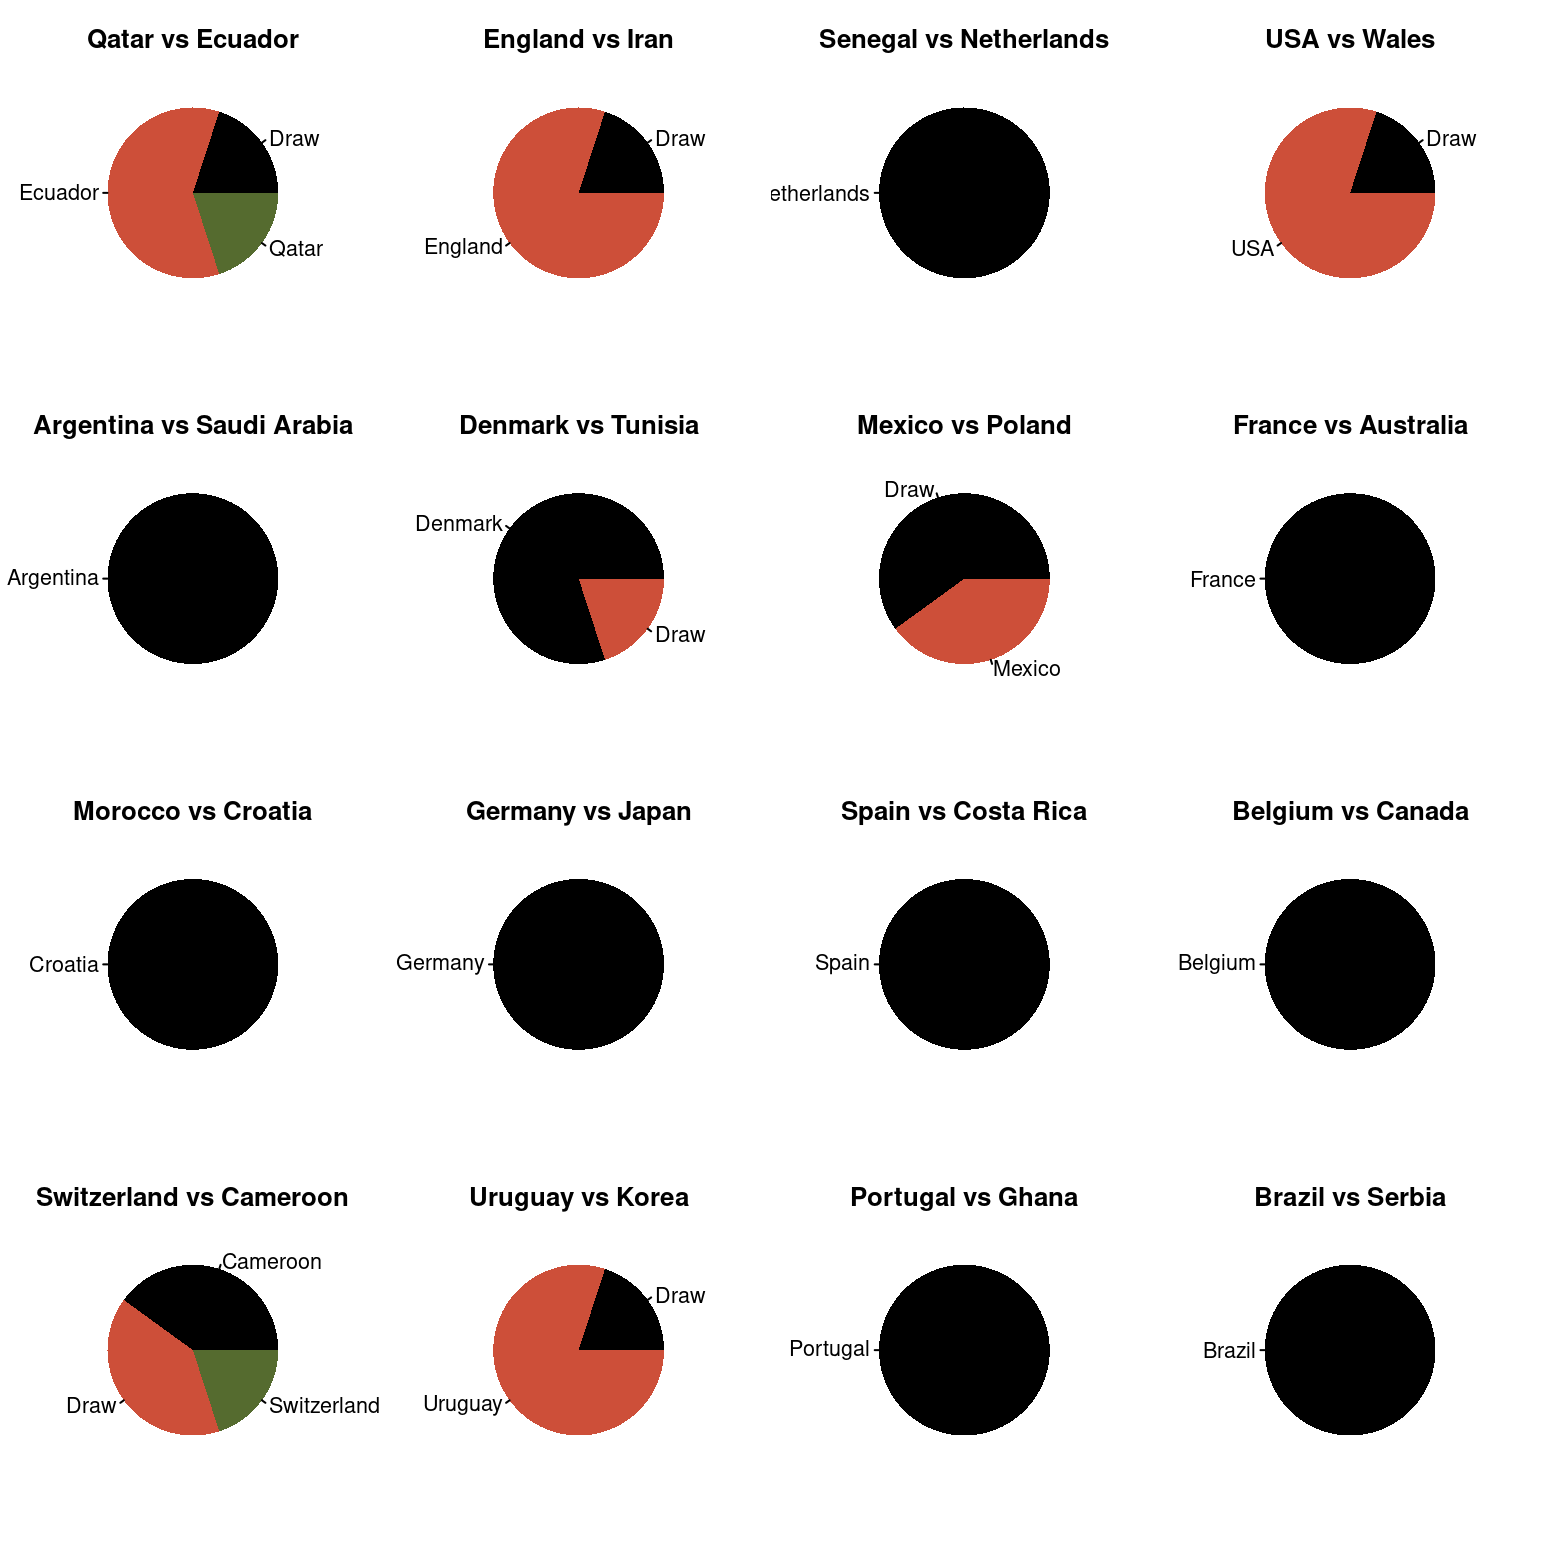
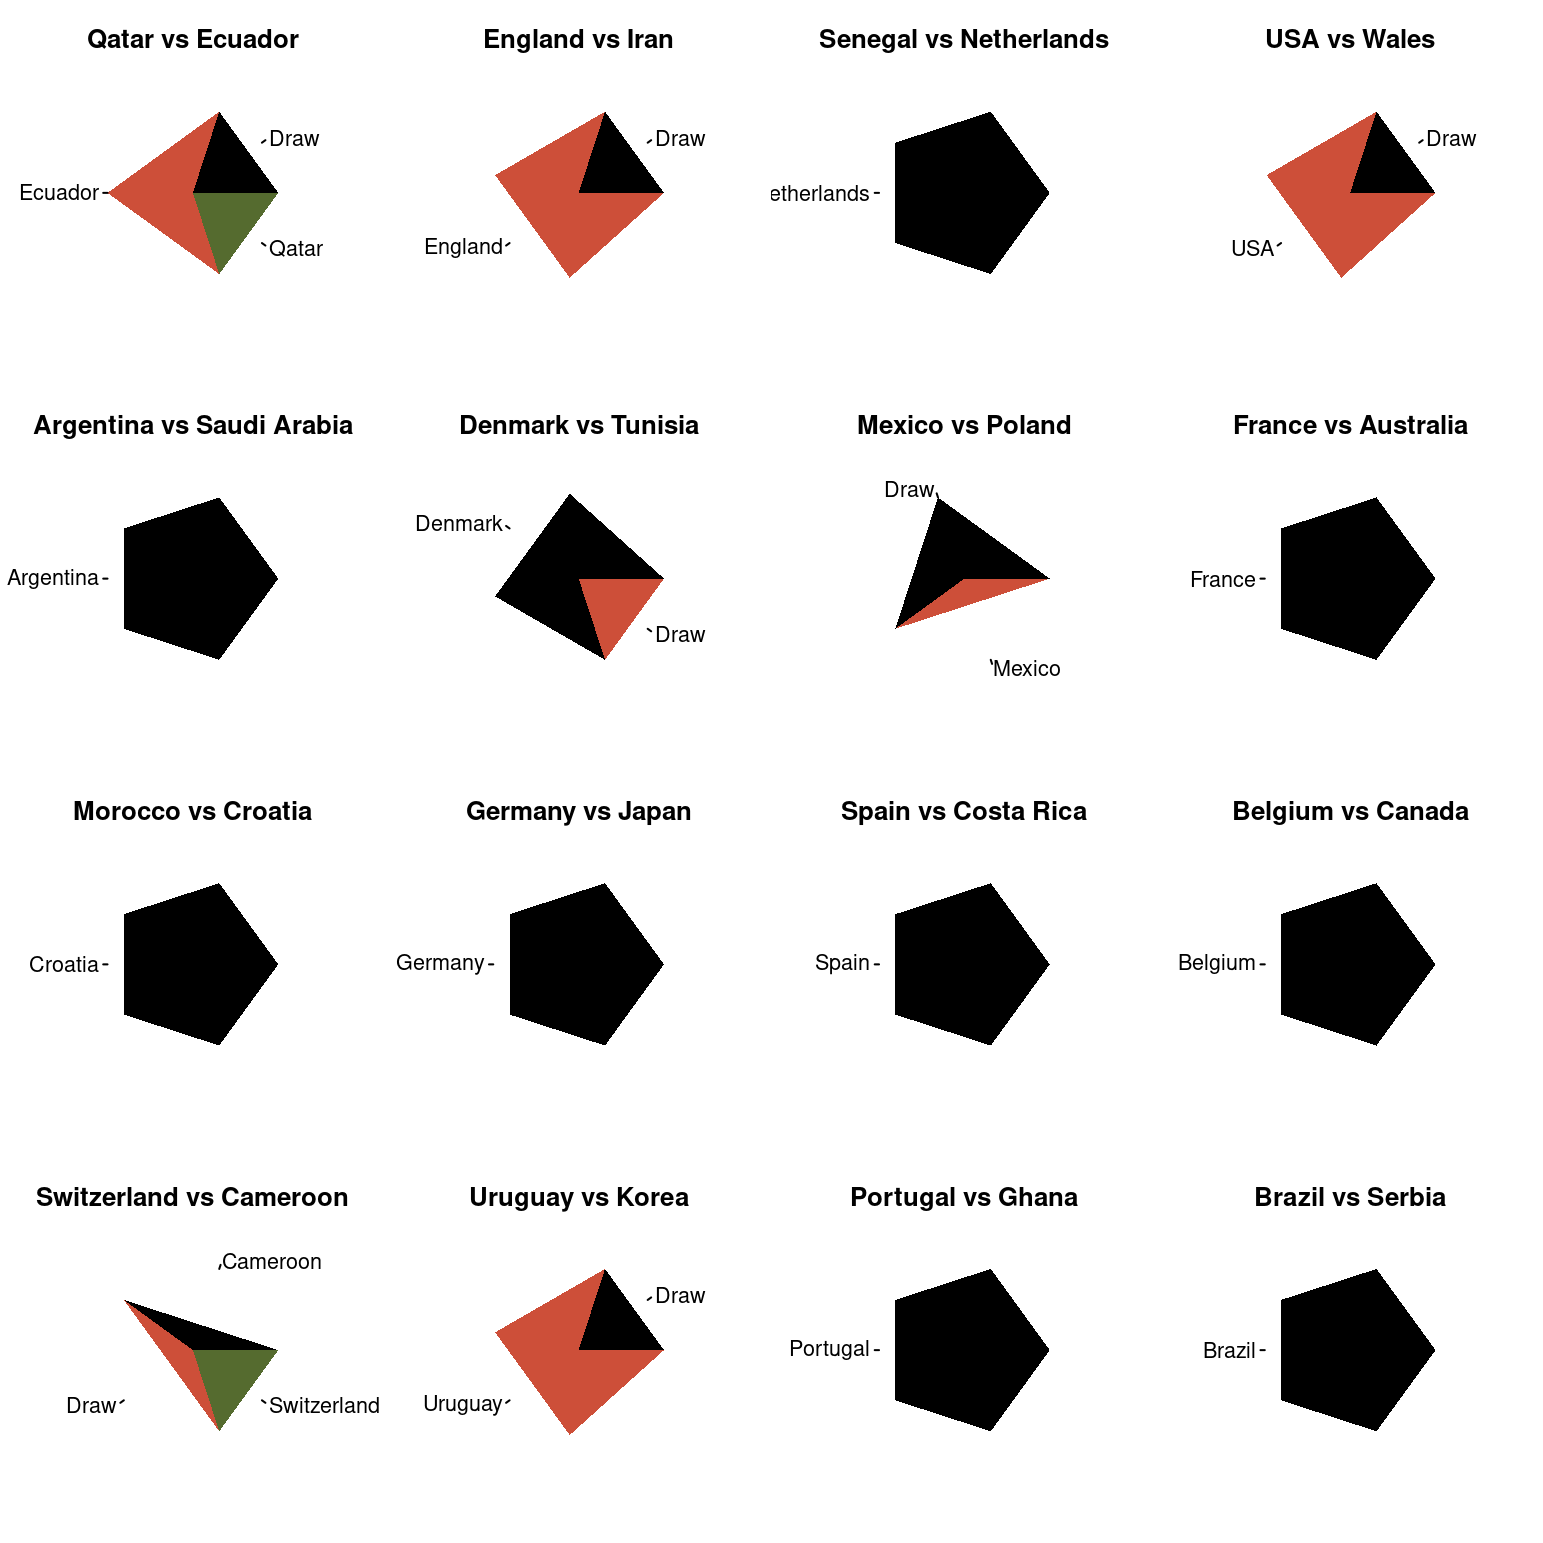
testing non circular pie plots

diff --git a/GS1_Picks.md b/GS1_Picks.md
@@ -1,7 +1,7 @@
-| ID_participante | Nombre                       | Qatar vs Ecuador | England vs Iran | Senegal vs Netherlands | USA vs Wales | Argentina vs Saudi Arabia | Denmark vs Tunisia | Mexico vs Poland | France vs Australia | Morocco vs Croatia | Germany vs Japan | Spain vs Costa Rica | Belgium vs Canada | Switzerland vs Cameroon | Uruguay vs Korea | Portugal vs Ghana | Brazil vs Serbia |
-| --------------- | ---------------------------- | ---------------- | --------------- | ---------------------- | ------------ | ------------------------- | ------------------ | ---------------- | ------------------- | ------------------ | ---------------- | ------------------- | ----------------- | ----------------------- | ---------------- | ----------------- | ---------------- |
-| 001             | Jonathan                     | Draw             | England         | Netherlands            | Draw         | Argentina                 | Denmark            | Draw             | France              | Croatia            | Germany          | Spain               | Belgium           | Draw                    | Draw             | Portugal          | Brazil           |
-| 002             | Poncho                       | Ecuador          | England         | Netherlands            | USA          | Argentina                 | Denmark            | Draw             | France              | Croatia            | Germany          | Spain               | Belgium           | Cameroon                | Uruguay          | Portugal          | Brazil           |
-| 006             | Juan Carlos Avendaño Aguilar | Qatar            | England         | Netherlands            | USA          | Argentina                 | Denmark            | Draw             | France              | Croatia            | Germany          | Spain               | Belgium           | Switzerland             | Uruguay          | Portugal          | Brazil           |
-| 008             | Héctor Zepeda               | Ecuador          | Draw            | Netherlands            | USA          | Argentina                 | Denmark            | Mexico           | France              | Croatia            | Germany          | Spain               | Belgium           | Draw                    | Uruguay          | Portugal          | Brazil           |
-| 009             | Luis Temo Marquez            | Ecuador          | England         | Netherlands            | USA          | Argentina                 | Draw               | Mexico           | France              | Croatia            | Germany          | Spain               | Belgium           | Cameroon                | Uruguay          | Portugal          | Brazil           |
+| numero_participante | Nombre                       | Qatar vs Ecuador | England vs Iran | Senegal vs Netherlands | USA vs Wales | Argentina vs Saudi Arabia | Denmark vs Tunisia | Mexico vs Poland | France vs Australia | Morocco vs Croatia | Germany vs Japan | Spain vs Costa Rica | Belgium vs Canada | Switzerland vs Cameroon | Uruguay vs Korea | Portugal vs Ghana | Brazil vs Serbia | ID_participante |
+| ------------------- | ---------------------------- | ---------------- | --------------- | ---------------------- | ------------ | ------------------------- | ------------------ | ---------------- | ------------------- | ------------------ | ---------------- | ------------------- | ----------------- | ----------------------- | ---------------- | ----------------- | ---------------- | --------------- |
+| 001                 | Jonathan                     | Draw             | England         | Netherlands            | Draw         | Argentina                 | Denmark            | Draw             | France              | Croatia            | Germany          | Spain               | Belgium           | Draw                    | Draw             | Portugal          | Brazil           | 001             |
+| 002                 | Poncho                       | Ecuador          | England         | Netherlands            | USA          | Argentina                 | Denmark            | Draw             | France              | Croatia            | Germany          | Spain               | Belgium           | Cameroon                | Uruguay          | Portugal          | Brazil           | 002             |
+| 006                 | Juan Carlos Avendaño Aguilar | Qatar            | England         | Netherlands            | USA          | Argentina                 | Denmark            | Draw             | France              | Croatia            | Germany          | Spain               | Belgium           | Switzerland             | Uruguay          | Portugal          | Brazil           | 006             |
+| 008                 | Héctor Zepeda               | Ecuador          | Draw            | Netherlands            | USA          | Argentina                 | Denmark            | Mexico           | France              | Croatia            | Germany          | Spain               | Belgium           | Draw                    | Uruguay          | Portugal          | Brazil           | 008             |
+| 009                 | Luis Temo Marquez            | Ecuador          | England         | Netherlands            | USA          | Argentina                 | Draw               | Mexico           | France              | Croatia            | Germany          | Spain               | Belgium           | Cameroon                | Uruguay          | Portugal          | Brazil           | 009             |

diff --git a/README.md b/README.md
@@ -30,7 +30,7 @@ Apuestas hechas por partido por cada jugador
 | 009             | Luis Temo Marquez            | Ecuador          | England         | Netherlands            | USA          | Argentina                 | Draw               | Mexico           | France              | Croatia            | Germany          | Spain               | Belgium           | Cameroon                | Uruguay          | Portugal          | Brazil           |
 
 
-### Graficos
+### Gráficos
 
 ![](media/01.picks_stage1.png )
 
